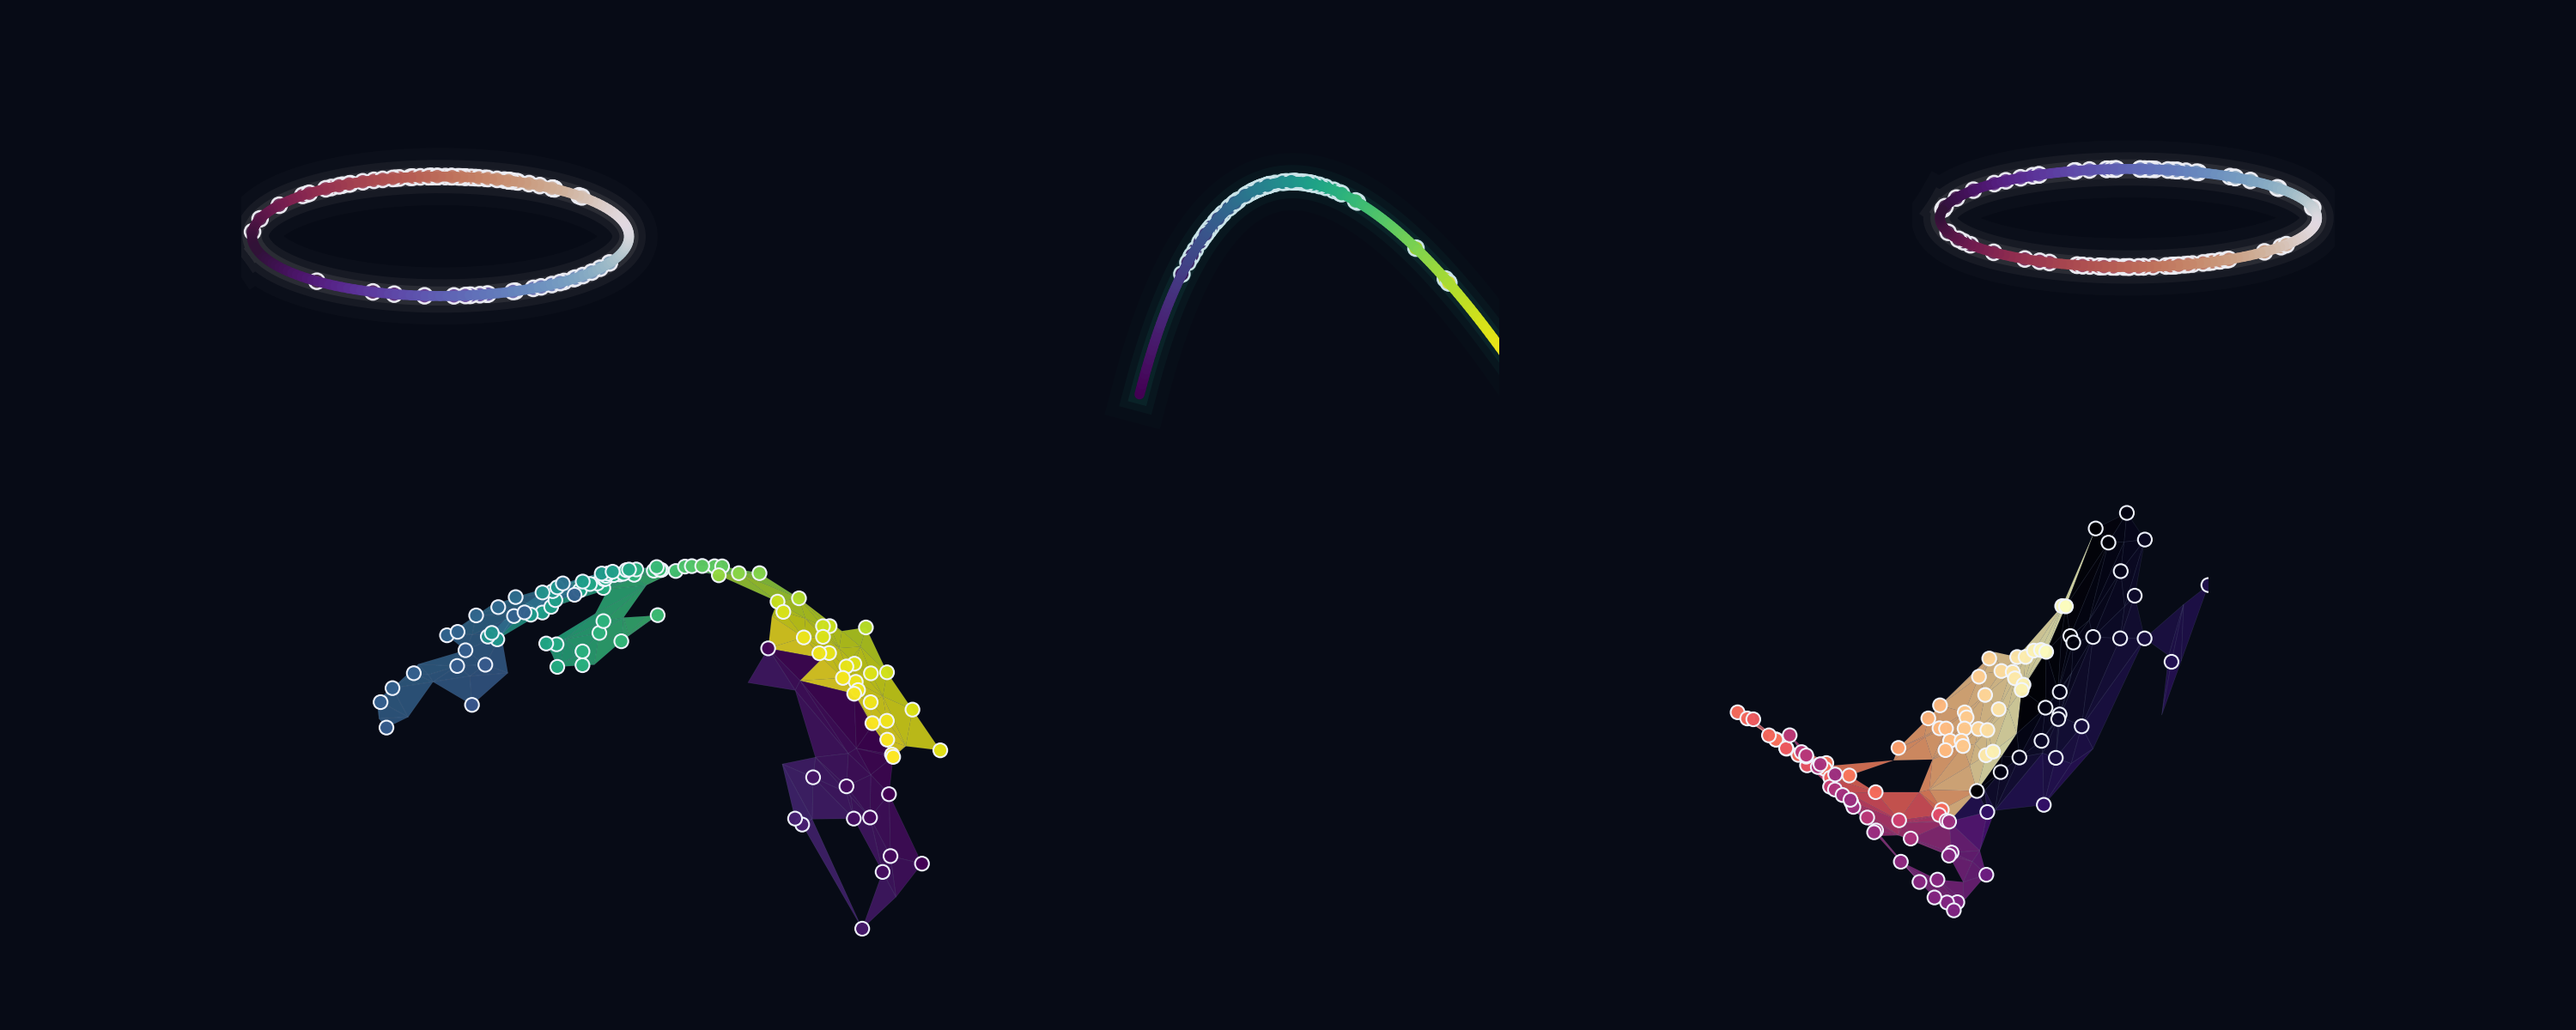
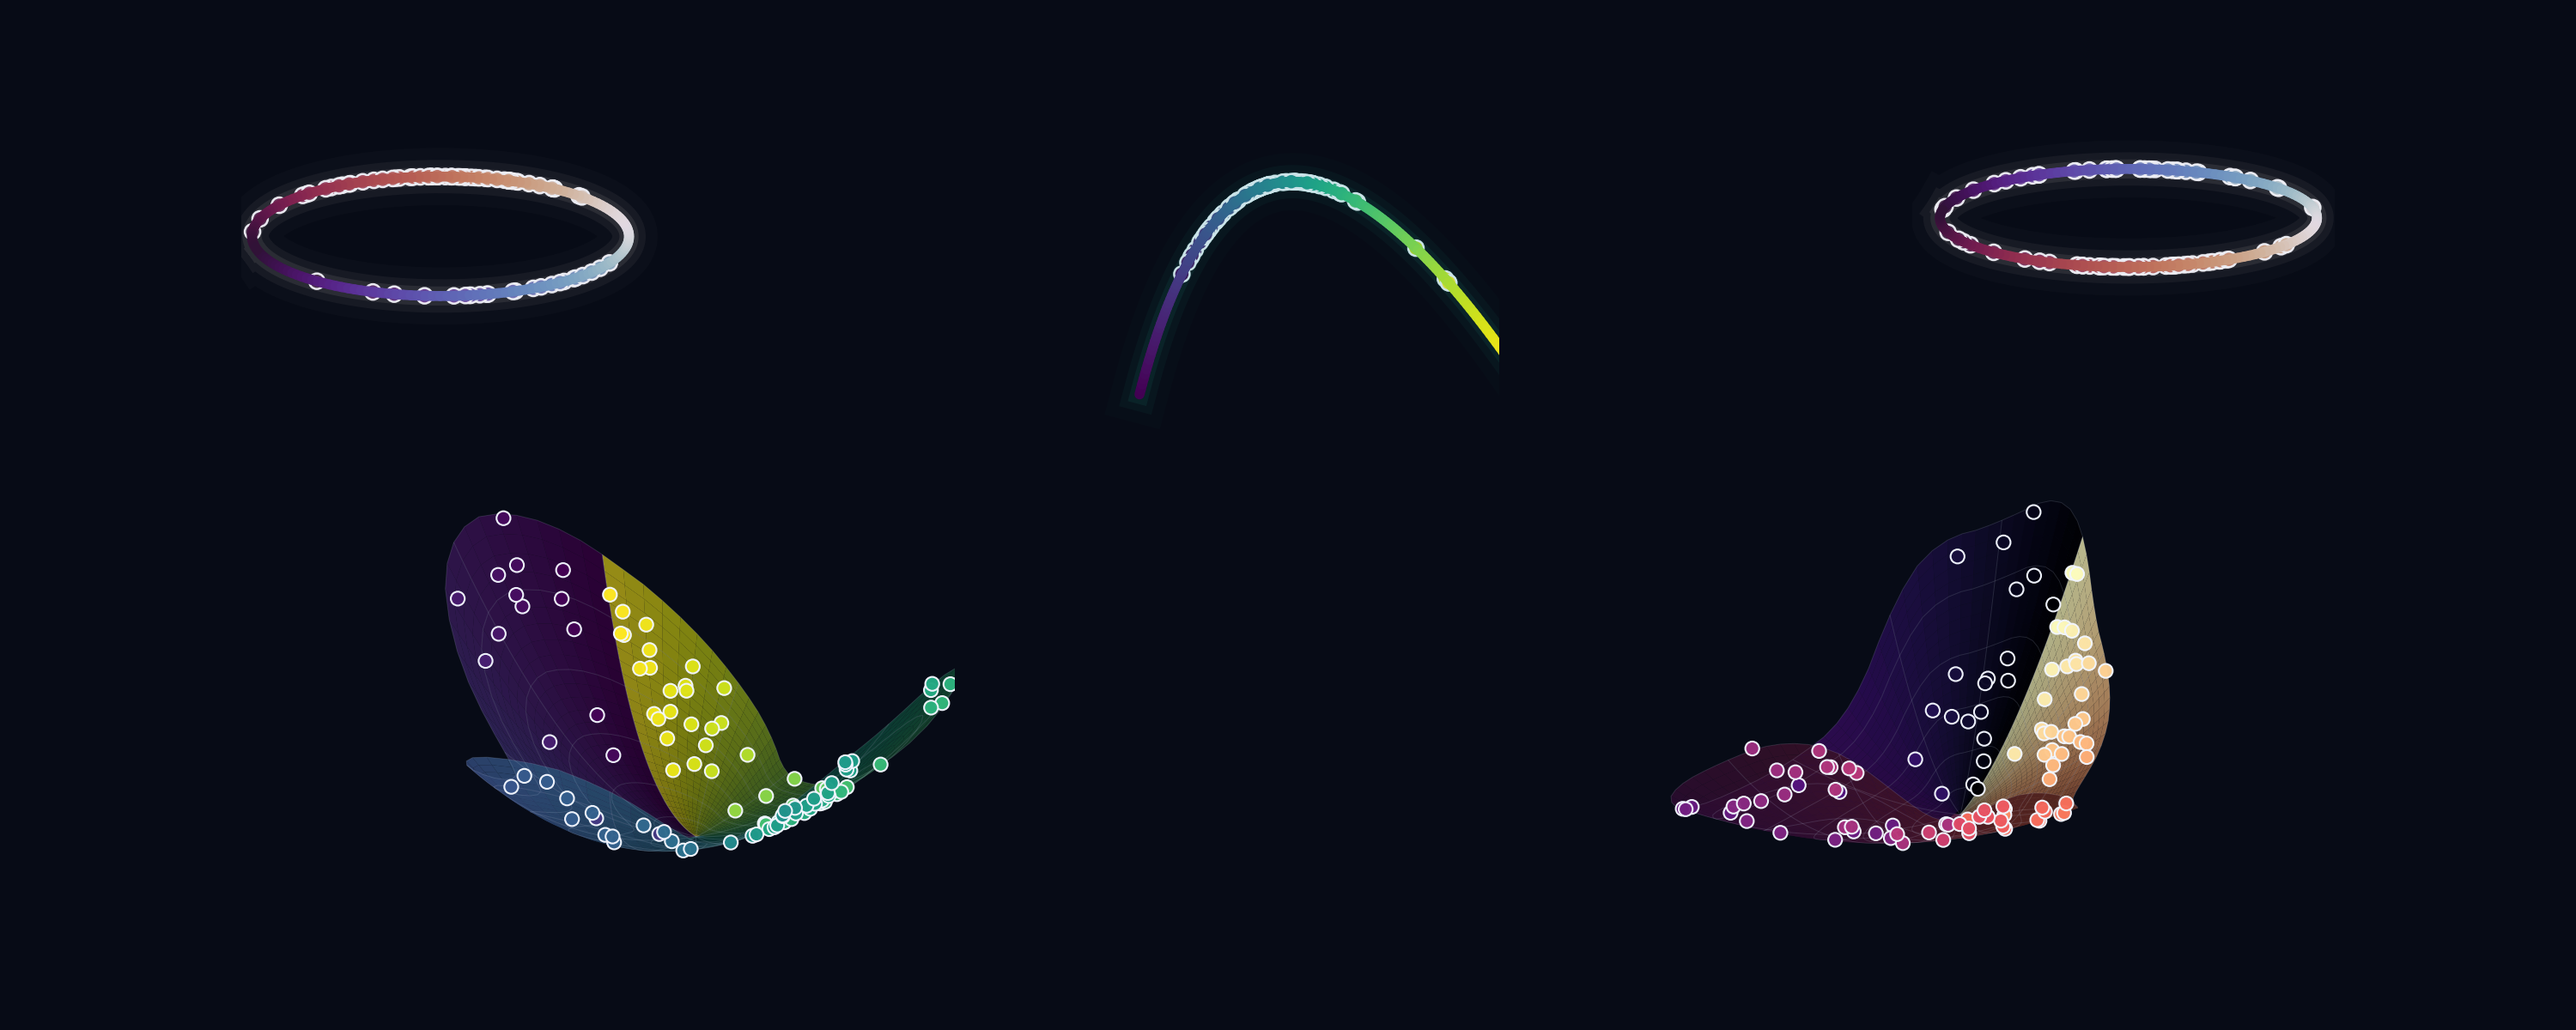
Refine grounded manifolds and steering construction

Changed region(s): [[0.124, 0.4933, 0.372, 0.8942], [0.651, 0.4933, 0.868, 0.8942]]

diff --git a/artifacts/issue_2502_figures/render_grounded_mixed_gallery.py b/artifacts/issue_2502_figures/render_grounded_mixed_gallery.py
@@ -15,8 +15,6 @@ import numpy as np
 
 matplotlib.use("Agg")
 import matplotlib.pyplot as plt
-import matplotlib.tri as mtri
-from mpl_toolkits.mplot3d.art3d import Poly3DCollection
 
 
 ROOT = Path("/private/tmp/claude-scratch-2502")
@@ -193,68 +191,96 @@ surface_meta = []
 for surface_index, (ax, item, cmap_name) in enumerate(
     zip(surface_axes, surfaces, ["viridis", "magma"])
 ):
-    # Display only the data-supported patch.  Delaunay triangles are built in
-    # the learned intrinsic coordinates and decoded through the fitted chart;
-    # there is no rectangular grid extending beyond observed token support.
-    _, display_mean, display_basis = pca(item["fitted"], 3)
-    bead3 = (item["fitted"] - display_mean) @ display_basis.T
-    triangulation = mtri.Triangulation(item["u"][:, 0], item["u"][:, 1])
-    triangles = triangulation.triangles
-    intrinsic_vertices = item["u"][triangles]
-    edge_lengths = np.stack(
-        [
-            np.linalg.norm(intrinsic_vertices[:, 0] - intrinsic_vertices[:, 1], axis=1),
-            np.linalg.norm(intrinsic_vertices[:, 1] - intrinsic_vertices[:, 2], axis=1),
-            np.linalg.norm(intrinsic_vertices[:, 2] - intrinsic_vertices[:, 0], axis=1),
-        ],
-        axis=1,
+    # A smooth, hole-free domain in the atom's actual intrinsic coordinates.
+    # Its radial envelope is the smoothed 90th-percentile data extent in each
+    # direction, enlarged by 8%: enough context around the observations,
+    # without the old far-field extrapolation.
+    intrinsic = item["u"]
+    token_angle = np.arctan2(intrinsic[:, 1], intrinsic[:, 0])
+    token_radius = np.linalg.norm(intrinsic, axis=1)
+    n_bins = 72
+    bin_width = 2 * np.pi / n_bins
+    bin_id = np.floor((token_angle + np.pi) / bin_width).astype(int) % n_bins
+    radial_profile = np.full(n_bins, np.nan)
+    for bin_index in range(n_bins):
+        values = token_radius[bin_id == bin_index]
+        if len(values):
+            radial_profile[bin_index] = np.quantile(values, 0.90)
+    valid = np.flatnonzero(np.isfinite(radial_profile))
+    extended_index = np.concatenate([valid - n_bins, valid, valid + n_bins])
+    extended_values = np.tile(radial_profile[valid], 3)
+    radial_profile = np.interp(np.arange(n_bins), extended_index, extended_values)
+    offsets = np.arange(-6, 7)
+    weights = np.exp(-0.5 * (offsets / 2.7) ** 2)
+    weights /= weights.sum()
+    radial_profile = sum(
+        weight * np.roll(radial_profile, int(offset))
+        for weight, offset in zip(weights, offsets)
     )
-    max_edge = edge_lengths.max(axis=1)
-    triangles = triangles[max_edge <= np.quantile(max_edge, 0.82)]
-    # Keep the largest locally connected patch.  Sparse peripheral points stay
-    # out of the rendered surface rather than being joined by visually
-    # misleading bridge triangles.
-    adjacency: dict[int, set[int]] = {}
-    for triangle in triangles:
-        for vertex in triangle:
-            adjacency.setdefault(int(vertex), set()).update(
-                int(other) for other in triangle if other != vertex
-            )
-    components: list[set[int]] = []
-    unseen = set(adjacency)
-    while unseen:
-        component: set[int] = set()
-        frontier = [unseen.pop()]
-        while frontier:
-            vertex = frontier.pop()
-            component.add(vertex)
-            for neighbor in adjacency.get(vertex, ()):
-                if neighbor in unseen:
-                    unseen.remove(neighbor)
-                    frontier.append(neighbor)
-        components.append(component)
-    largest_component = max(components, key=len)
-    triangles = np.asarray(
+    radial_profile *= 1.08
+
+    bin_centers = -np.pi + (np.arange(n_bins) + 0.5) * bin_width
+    extended_centers = np.concatenate(
+        [bin_centers - 2 * np.pi, bin_centers, bin_centers + 2 * np.pi]
+    )
+    extended_profile = np.tile(radial_profile, 3)
+    theta = np.linspace(-np.pi, np.pi, 97)
+    boundary = np.interp(theta, extended_centers, extended_profile)
+    radial_fraction = np.linspace(0.0, 1.0, 30)
+    uu = radial_fraction[:, None] * boundary[None, :] * np.cos(theta)[None, :]
+    vv = radial_fraction[:, None] * boundary[None, :] * np.sin(theta)[None, :]
+    design = np.column_stack(
         [
-            triangle
-            for triangle in triangles
-            if all(int(vertex) in largest_component for vertex in triangle)
+            np.ones(uu.size),
+            uu.ravel(),
+            vv.ravel(),
+            uu.ravel() ** 2,
+            (uu * vv).ravel(),
+            vv.ravel() ** 2,
         ]
     )
-    triangle_uv = item["u"][triangles].mean(axis=1)
-    phase = np.arctan2(triangle_uv[:, 1], triangle_uv[:, 0])
-    facecolors = plt.get_cmap(cmap_name)((phase + np.pi) / (2 * np.pi))
-    facecolors[:, 3] = 0.80
-    surface = Poly3DCollection(
-        bead3[triangles],
+    mesh = (design @ item["beta"]).reshape(*uu.shape, -1)
+    _, display_mean, display_basis = pca(
+        np.vstack([mesh.reshape(-1, 128), item["fitted"]]),
+        3,
+    )
+    mesh3 = ((mesh.reshape(-1, 128) - display_mean) @ display_basis.T).reshape(
+        *uu.shape, 3
+    )
+    bead3 = (item["fitted"] - display_mean) @ display_basis.T
+    facecolors = plt.get_cmap(cmap_name)(
+        (np.arctan2(vv, uu) + np.pi) / (2 * np.pi)
+    )
+    facecolors[..., 3] = 0.82
+    ax.plot_surface(
+        mesh3[:, :, 0],
+        mesh3[:, :, 1],
+        mesh3[:, :, 2],
         facecolors=facecolors,
-        edgecolors=(0.75, 0.84, 1.0, 0.10),
-        linewidths=0.24,
+        rstride=1,
+        cstride=1,
+        linewidth=0,
         antialiased=True,
+        shade=True,
+        alpha=0.86,
         zorder=2,
     )
-    ax.add_collection3d(surface)
-    supported_vertices = np.unique(triangles)
+
+    # Sparse coordinate lines show the actual regular (u, v) chart rather than
+    # an arbitrary triangulation of display-space points.
+    ax.plot_wireframe(
+        mesh3[:, :, 0],
+        mesh3[:, :, 1],
+        mesh3[:, :, 2],
+        rstride=5,
+        cstride=8,
+        color="#d9e7ff",
+        linewidth=0.34,
+        alpha=0.14,
+        zorder=4,
+    )
+    token_boundary = np.interp(token_angle, extended_centers, extended_profile)
+    supported_vertices = np.flatnonzero(token_radius <= token_boundary * 1.01)
     keep = RNG.choice(
         supported_vertices,
         min(105, len(supported_vertices)),
@@ -287,7 +313,7 @@ for surface_index, (ax, item, cmap_name) in enumerate(
             "curvature_score": item["curvature"],
             "sheet_ratio": item["sheet_ratio"],
             "bend_ratio": item["bend_ratio"],
-            "display_domain": "largest connected Delaunay patch of observed token coordinates; longest 18% boundary bridges removed",
+            "display_domain": "smooth 90th-percentile radial envelope of observed intrinsic coordinates with an 8% margin",
         }
     )
 

diff --git a/artifacts/issue_2502_figures/render_steering_exact.py b/artifacts/issue_2502_figures/render_steering_exact.py
@@ -119,6 +119,51 @@ origin = np.array([0.0, 0.0])
 w_wed = wed - origin
 sum_state = tue + w_wed
 
+# The learned Wednesday direction (center -> Wednesday), then its translation
+# to the current Tuesday activation.  The dashed parallelogram makes the
+# vector construction visible without adding prose or equations.
+left.scatter(
+    *origin,
+    s=42,
+    color=TEXT,
+    edgecolors=INK,
+    linewidths=1.0,
+    alpha=0.92,
+    zorder=9,
+)
+left.add_patch(
+    FancyArrowPatch(
+        tuple(origin),
+        tuple(wed),
+        arrowstyle="-|>",
+        mutation_scale=19,
+        linewidth=2.2,
+        color=RED,
+        linestyle=(0, (4, 3)),
+        alpha=0.82,
+        shrinkA=5,
+        shrinkB=8,
+        zorder=7,
+    )
+)
+left.plot(
+    [origin[0], tue[0]],
+    [origin[1], tue[1]],
+    color=TEXT,
+    lw=1.25,
+    ls=(0, (3, 4)),
+    alpha=0.30,
+    zorder=5,
+)
+left.plot(
+    [wed[0], sum_state[0]],
+    [wed[1], sum_state[1]],
+    color=RED,
+    lw=1.55,
+    ls=(0, (4, 3)),
+    alpha=0.68,
+    zorder=6,
+)
 arrow(left, tue, sum_state, RED, width=4.0, mutation=26)
 left.scatter(*sum_state, s=440, color=RED, alpha=0.94, edgecolors="#ffdfe2", lw=2.0, zorder=10)
 
@@ -156,39 +201,6 @@ right.plot(
     zorder=7,
 )
 arrow(right, arc[42], arc[50], GREEN, width=1.8, mutation=15, z=8)
-right.text(
-    2.72,
-    0.16,
-    "learned coordinate path",
-    color="#baffdf",
-    fontsize=10.5,
-    ha="left",
-    va="center",
-)
-right.annotate(
-    "encode current activation",
-    xy=tue,
-    xytext=(-1.45, 0.72),
-    color=TEXT,
-    fontsize=10.5,
-    ha="center",
-    va="center",
-    bbox={"boxstyle": "round,pad=0.30", "fc": "#111a2f", "ec": "#7085b8", "alpha": 0.94},
-    arrowprops={"arrowstyle": "->", "color": "#9eb0d8", "lw": 1.4},
-    zorder=12,
-)
-right.annotate(
-    "Wednesday examples\nlocate target coordinate",
-    xy=wed,
-    xytext=(-1.38, -0.62),
-    color=TEXT,
-    fontsize=10.5,
-    ha="center",
-    va="center",
-    bbox={"boxstyle": "round,pad=0.32", "fc": "#10261f", "ec": GREEN, "alpha": 0.94},
-    arrowprops={"arrowstyle": "->", "color": GREEN, "lw": 1.4},
-    zorder=12,
-)
 
 fig.savefig(OUT, facecolor=INK, dpi=200)
 print(OUT)
